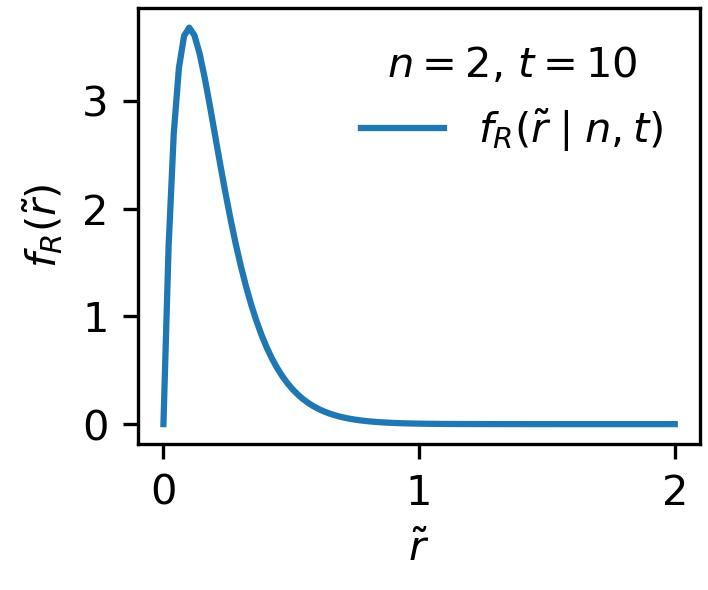
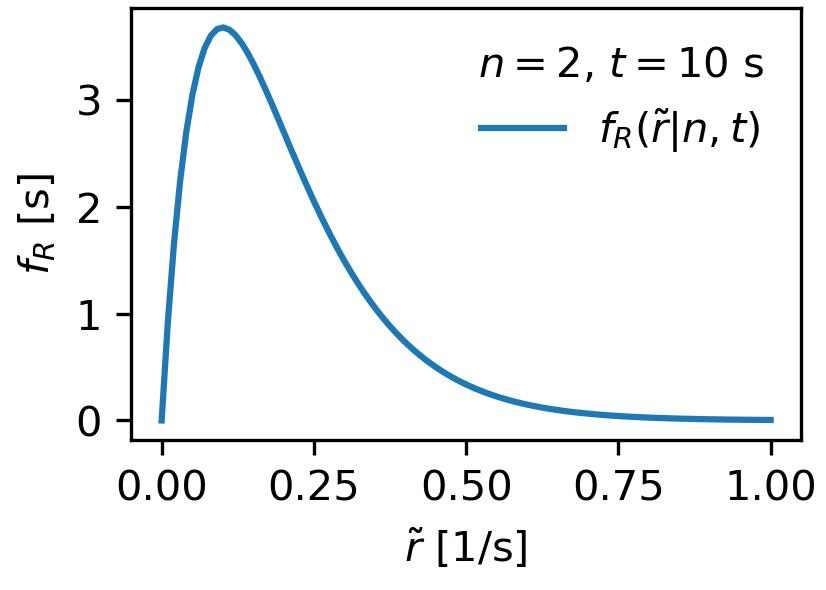
plots for a presentation

diff --git a/presentation_plot_priors.py b/presentation_plot_priors.py
@@ -1,38 +1,173 @@
 import numpy as np
 import matplotlib.pyplot as plt
-from scipy.stats import beta, gamma
+from scipy.stats import beta, gamma, poisson, binom
 from scipy.optimize import brentq
 
 np.random.seed(42)
 inch_to_mm = 25.4
 
-# Poisson rate
+# Poisson rate prior likelihood posterior
 
-# Plot prior
-# Input values
 n = 2
 t = 10
-# Posterior
+
 shape = n
 scale = 1/t
-pdf_rate_x = np.linspace(0, 2, 100)
-pdf_rate = gamma.pdf(pdf_rate_x, shape, scale=scale)
-info_text = r"$n=$" + f"{n}, " + r"$t=$" + f"{t}"
+rate_x = np.linspace(0, 1, 100)
+n_x = np.linspace(0, 10, 11)
+posterior_rate = gamma.pdf(rate_x, shape, scale=scale)
+prior_rate = 1/rate_x[1:]
+r_guess = n/t
+likelihood_rate = poisson.pmf(n_x, r_guess*t)
 
-fig, ax = plt.subplots(1, 1, figsize=(60/inch_to_mm, 50/inch_to_mm))
-ax.plot(pdf_rate_x, pdf_rate, label=r"$f_R(\tilde{r} \mid n, t)$")
-ax.set_xlabel(r"$\tilde{r}$")
-ax.set_ylabel(r"$f_R(\tilde{r})$")
-ax.legend(title=info_text, frameon=False)
+posterior_info_text = r"$n=$" + f"{n}, " + r"$t=$" + f"{t} s"
+likelihood_info_text = r"$\tilde{r}=$" + f"{r_guess} (guess), \n" + r"$t=$" + f"{t} s"
+
+fig, ax = plt.subplots(1, 1, figsize=(70/inch_to_mm, 50/inch_to_mm))
+ax.plot(rate_x, posterior_rate, label=r"$f_R(\tilde{r} | n, t)$")
+ax.set_xlabel(r"$\tilde{r}$ [1/s]")
+ax.set_ylabel(r"$f_R$ [s]")
+ax.legend(title=posterior_info_text, frameon=False)
 plt.tight_layout(pad = 0.2)
 fig.subplots_adjust(hspace=0, wspace=0)
 plt.savefig("figs/rate_posterior.jpg", dpi=300)
 
+fig, ax = plt.subplots(1, 1, figsize=(70/inch_to_mm, 50/inch_to_mm))
+ax.plot(rate_x[1:], prior_rate, label=r"$f_R(\tilde{r})$")
+ax.set_xlabel(r"$\tilde{r}$ [1/s]")
+ax.set_ylabel(r"$f_R$ [s]")
+ax.set_ylim([None, 50])
+ax.legend(frameon=False)
+plt.tight_layout(pad = 0.2)
+fig.subplots_adjust(hspace=0, wspace=0)
+plt.savefig("figs/rate_prior.jpg", dpi=300)
 
-# a = x + 1/2
-# b = n - x + 1/2
-# pdf_eff_x = np.linspace(0, 5e-8, 1000)
-# pdf_eff = beta.pdf(pdf_eff_x, a, b)
+fig, ax = plt.subplots(1, 1, figsize=(70/inch_to_mm, 50/inch_to_mm))
+ax.plot(n_x, likelihood_rate, label=r"$p_N(n | \tilde{r}, t)$", ls="--", marker="o")
+ax.set_xlabel(r"$n$")
+ax.set_ylabel(r"$p_N$")
+ax.legend(title=likelihood_info_text, frameon=False)
+plt.tight_layout(pad = 0.2)
+fig.subplots_adjust(hspace=0, wspace=0)
+plt.savefig("figs/rate_likelihood.jpg", dpi=300)
+
+# Poisson rate posterior examples
+
+ns = [1, 2, 3, 4, 5, 6, 7, 8, 9, 10]
+t = 100
+rate_x = np.linspace(0, 0.2, 100)
+
+fig, ax = plt.subplots(1, 1, figsize=(100/inch_to_mm, 80/inch_to_mm))
+for n in ns:
+    shape = n
+    scale = 1/t
+    posterior_rate = gamma.pdf(rate_x, shape, scale=scale)
+    ax.plot(rate_x, posterior_rate, label=r"$n=$" + f"{n}, " + r"$t=$" + f"{t} s")
+ax.set_xlabel(r"$\tilde{r}$ [1/s]")
+ax.set_ylabel(r"$f_R(\tilde{r} | n, t)$ [s]")
+ax.legend(frameon=False)
+plt.tight_layout(pad = 0.2)
+fig.subplots_adjust(hspace=0, wspace=0)
+plt.savefig("figs/rate_posterior_examples_1.jpg", dpi=300)
+
+ns = [50, 100, 150]
+t = 100
+rate_x = np.linspace(0, 2, 100)
+
+fig, ax = plt.subplots(1, 1, figsize=(100/inch_to_mm, 80/inch_to_mm))
+for n in ns:
+    shape = n
+    scale = 1/t
+    posterior_rate = gamma.pdf(rate_x, shape, scale=scale)
+    ax.plot(rate_x, posterior_rate, label=r"$n=$" + f"{n}, " + r"$t=$" + f"{t} s")
+ax.set_xlabel(r"$\tilde{r}$ [1/s]")
+ax.set_ylabel(r"$f_R(\tilde{r} | n, t)$ [s]")
+ax.legend(frameon=False)
+plt.tight_layout(pad = 0.2)
+fig.subplots_adjust(hspace=0, wspace=0)
+plt.savefig("figs/rate_posterior_examples_2.jpg", dpi=300)
+
+# Binomial efficiency prior posterior likelihood
+
+k = 2
+s = 100
+
+a = k + 1/2
+b = s - k + 1/2
+efficiency_x = np.linspace(0, 0.08, 100)
+efficiency_x_prior = np.linspace(0.01, 0.99, 100)
+k_x = np.linspace(0, 10, 11)
+posterior_rate = beta.pdf(efficiency_x, a, b)
+prior_rate = 1/np.sqrt((efficiency_x_prior*(1-efficiency_x_prior)))
+e_guess = k/s
+likelihood_rate = binom.pmf(k_x, s, e_guess)
+
+posterior_info_text = r"$k=$" + f"{k}, " + r"$s=$" + f"{s}"
+likelihood_info_text = r"$\tilde{\varepsilon}=$" + f"{e_guess} (guess), \n" + r"$s=$" + f"{s}"
+
+fig, ax = plt.subplots(1, 1, figsize=(70/inch_to_mm, 50/inch_to_mm))
+ax.plot(efficiency_x, posterior_rate, label=r"$f_E(\tilde{\varepsilon} | k, s)$")
+ax.set_xlabel(r"$\tilde{\varepsilon}$")
+ax.set_ylabel(r"$f_E$")
+ax.legend(title=posterior_info_text, frameon=False)
+plt.tight_layout(pad = 0.2)
+fig.subplots_adjust(hspace=0, wspace=0)
+plt.savefig("figs/efficiency_posterior.jpg", dpi=300)
+
+fig, ax = plt.subplots(1, 1, figsize=(70/inch_to_mm, 50/inch_to_mm))
+ax.plot(efficiency_x_prior, prior_rate, label=r"$f_R(\tilde{\varepsilon})$")
+ax.set_xlabel(r"$\tilde{r}$")
+ax.set_ylabel(r"$f_E$")
+ax.legend(frameon=False)
+plt.tight_layout(pad = 0.2)
+fig.subplots_adjust(hspace=0, wspace=0)
+plt.savefig("figs/efficiency_prior.jpg", dpi=300)
+
+fig, ax = plt.subplots(1, 1, figsize=(70/inch_to_mm, 50/inch_to_mm))
+ax.plot(k_x, likelihood_rate, label=r"$p_K(k | \tilde{\varepsilon}, s)$", ls="--", marker="o")
+ax.set_xlabel(r"$k$")
+ax.set_ylabel(r"$p_K$")
+ax.legend(title=likelihood_info_text, frameon=False)
+plt.tight_layout(pad = 0.2)
+fig.subplots_adjust(hspace=0, wspace=0)
+plt.savefig("figs/efficiency_likelihood.jpg", dpi=300)
+
+# Binomial effiecni posterior examples
+
+ks = [0, 1, 2, 5]
+ss = [100, 100, 100, 100]
+efficiency_x = np.linspace(0, 0.08, 100)
+
+fig, ax = plt.subplots(1, 1, figsize=(100/inch_to_mm, 80/inch_to_mm))
+for k, s in zip(ks, ss):
+    a = k + 1/2
+    b = s - k + 1/2
+    posterior_rate = beta.pdf(efficiency_x, a, b)
+    ax.plot(efficiency_x, posterior_rate, label=r"$k=$" + f"{k}, " + r"$s=$" + f"{s}")
+ax.set_xlabel(r"$\tilde{\varepsilon}$")
+ax.set_ylabel(r"$f_E(\tilde{\varepsilon} | k, s)$")
+ax.legend(frameon=False)
+plt.tight_layout(pad = 0.2)
+fig.subplots_adjust(hspace=0, wspace=0)
+plt.savefig("figs/efficiency_posterior_examples_1.jpg", dpi=300)
+
+ks = [5, 10, 20, 40]
+ss = [100, 200, 400, 800]
+efficiency_x = np.linspace(0, 0.14, 100)
+
+fig, ax = plt.subplots(1, 1, figsize=(100/inch_to_mm, 80/inch_to_mm))
+for k, s in zip(ks, ss):
+    a = k + 1/2
+    b = s - k + 1/2
+    posterior_rate = beta.pdf(efficiency_x, a, b)
+    ax.plot(efficiency_x, posterior_rate, label=r"$k=$" + f"{k}, " + r"$s=$" + f"{s}")
+ax.set_xlabel(r"$\tilde{\varepsilon}$")
+ax.set_ylabel(r"$f_E(\tilde{\varepsilon} | k, s)$")
+ax.legend(frameon=False)
+plt.tight_layout(pad = 0.2)
+fig.subplots_adjust(hspace=0, wspace=0)
+plt.savefig("figs/efficiency_posterior_examples_2.jpg", dpi=300)
+
 
 
 
